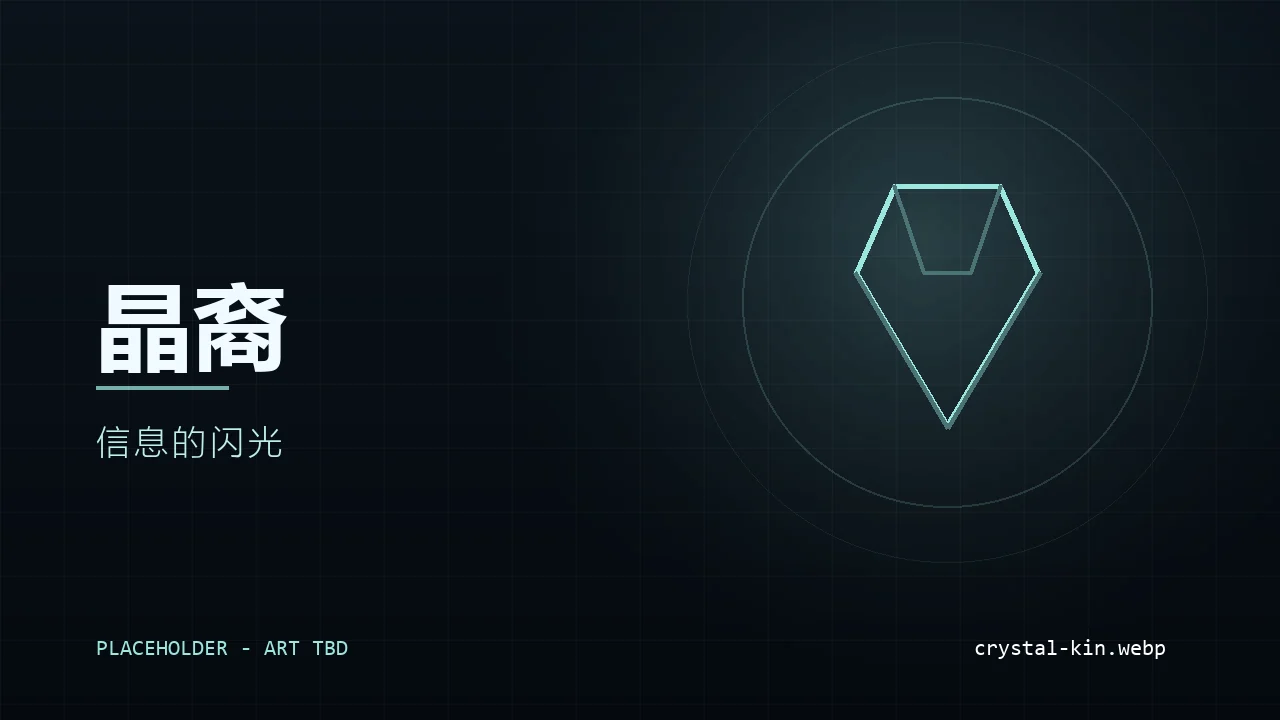
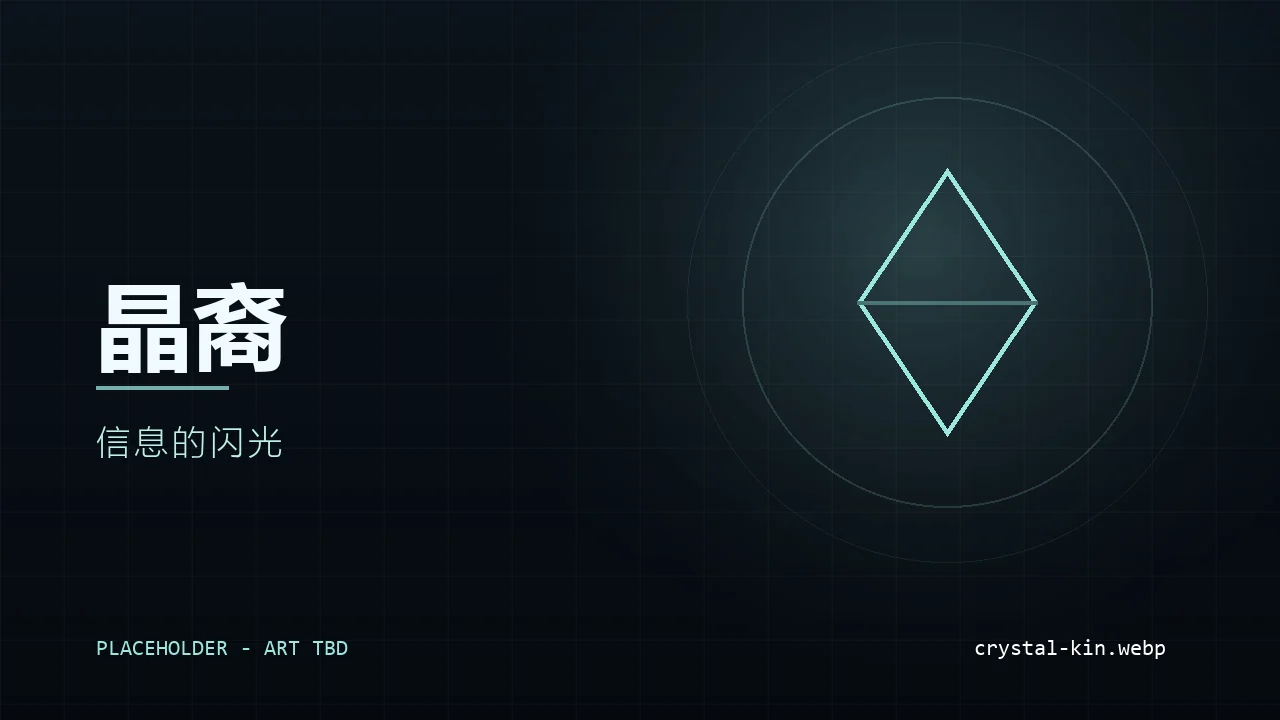
feat: 晶裔徽记改八面体，亚人改成不带五官的方脸
- 晶裔：切面宝石 → 八面体（菱形 + 中腰线，上下两个四棱锥底对底）
  中途试过等轴投影的「六边形 + Y」，但那个更像立方体，弃用
- 亚人：猫猫头 → 方形脸、不画五官，只留一对贴边的窄耳朵
  耳朵只画「Λ」两条边、底边压在脸的顶线上，避免多出横线像两面小旗

生成脚本 tools/build-race-badges.py 同步更新，两枚 webp 重新生成。
构建 166 页；site-health 全绿。

Changed region(s): [[0.6562, 0.2444, 0.8125, 0.6111]]

diff --git a/tools/build-race-badges.py b/tools/build-race-badges.py
@@ -56,8 +56,8 @@ RACES = [
     ("divine-envoy", "神界使", "#C9A8FF", "眼中再无星辰", "star"),
     ("demon", "恶魔", "#C0605F", "混乱的可能性", "horn"),
     ("evil-god", "邪神", "#A66BE0", "千分之一的可能", "eye"),
-    # 猫猫头：亚人先认这一支最直白的样子
-    ("demi-human", "亚人", "#B9C6A8", "存在于新旧秩序的夹缝中", "cat"),
+    # 方脸不画五官：亚人是兽人 / 哥布林 / 人马那一类，不该只给一张具体的「猫脸」
+    ("demi-human", "亚人", "#B9C6A8", "存在于新旧秩序的夹缝中", "demi-human"),
 ]
 
 
@@ -151,33 +151,17 @@ def draw_glyph(draw, name, cx, cy, s, color):
         draw.polygon(P([nose, fold, low_tip]), outline=color, width=line)
         stroke([nose, fold], faint, fine)
     elif name == "polyhedron":
-        # 多面体：一颗切好的宝石 —— 冠部（顶边收到腰线）+ 腰线 + 亭部收成谷底
-        hw = s * 0.68
-        top = cy - s * 0.86
-        waist = cy - s * 0.22
-        bot = cy + s * 0.92
-        outline = [
-            (cx - hw * 0.58, top),
-            (cx + hw * 0.58, top),
-            (cx + hw, waist),
-            (cx, bot),
-            (cx - hw, waist),
-        ]
-        draw.polygon(P(outline), outline=color, width=line)
-        # 冠部：顶边两道斜面收到腰线
-        stroke(
-            [
-                (cx - hw * 0.58, top),
-                (cx - hw * 0.26, waist),
-                (cx + hw * 0.26, waist),
-                (cx + hw * 0.58, top),
-            ],
-            faint,
-            fine,
-        )
-        # 亭部：从腰线收到谷底
-        for side in (-1, 1):
-            stroke([(cx + side * hw, waist), (cx, bot)], faint, fine)
+        # 八面体：上下两个四棱锥底对底，侧面看过去就是「菱形 + 一道中腰线」。
+        # （等轴投影的六边形 + Y 更像立方体，所以没用那种画法）
+        hw = s * 0.66
+        hh = s * 0.98
+        top = (cx, cy - hh)
+        bot = (cx, cy + hh)
+        left = (cx - hw, cy)
+        right = (cx + hw, cy)
+        draw.polygon(P([top, right, bot, left]), outline=color, width=line)
+        # 中腰线 = 那个正方形底座的可见边
+        stroke([left, right], faint, fine)
     elif name == "flame":
         draw.polygon(
             P(
@@ -316,41 +300,28 @@ def draw_glyph(draw, name, cx, cy, s, color):
         draw.arc(box(cx - s, cy - s * 0.72, cx + s, cy + s * 0.72), 20, 160, fill=color, width=line)
         draw.ellipse(box(cx - s * 0.22, cy - s * 0.22, cx + s * 0.22, cy + s * 0.22), outline=faint, width=line)
         draw.ellipse(box(cx - s * 0.06, cy - s * 0.16, cx + s * 0.06, cy + s * 0.16), fill=faint)
-    elif name == "cat":
-        # 猫猫头：圆脸 + 两只三角耳 + 两点眼 + 一个小鼻子
-        head = s * 0.74
-        draw.ellipse(
-            box(cx - head, cy - head * 0.80, cx + head, cy + head * 1.04), outline=color, width=line
+    elif name == "demi-human":
+        # 亚人：方脸 + 一对耳，**不画五官**。
+        # 这一族是兽人 / 哥布林 / 人马那一类，不该只给一张具体的「猫脸」。
+        w = s * 0.66
+        h = s * 0.60
+        top_y = cy - h + s * 0.08
+        bot_y = cy + h + s * 0.08
+        draw.rounded_rectangle(
+            box(cx - w, top_y, cx + w, bot_y),
+            radius=round(s * 0.16),
+            outline=color,
+            width=line,
         )
         for side in (-1, 1):
-            ex = cx + side * head * 0.56
-            draw.polygon(
-                P(
-                    [
-                        (ex - side * head * 0.22, cy - head * 0.62),
-                        (ex + side * head * 0.18, cy - head * 1.32),
-                        (ex + side * head * 0.54, cy - head * 0.36),
-                    ]
-                ),
-                outline=color,
-                width=line,
-            )
-        for side in (-1, 1):
-            exx = cx + side * head * 0.34
-            eyy = cy - head * 0.08
-            draw.ellipse(
-                box(exx - s * 0.055, eyy - s * 0.075, exx + s * 0.055, eyy + s * 0.075), fill=faint
-            )
-        draw.polygon(
-            P(
-                [
-                    (cx - s * 0.08, cy + head * 0.18),
-                    (cx + s * 0.08, cy + head * 0.18),
-                    (cx, cy + head * 0.32),
-                ]
-            ),
-            fill=faint,
-        )
+            # 耳朵只画成「Λ」两条边，底边压在脸的顶线上 ——
+            # 画成闭合三角形会多出一条横线，看着像插了两面小旗。
+            # 比例收窄一点（宽 0.38w、高 0.34s），才像耳朵不像旗子。
+            outer = (cx + side * w * 0.78, top_y)
+            tip = (cx + side * w * 0.60, top_y - s * 0.34)
+            inner = (cx + side * w * 0.40, top_y)
+            stroke([outer, tip], color, line)
+            stroke([tip, inner], color, line)
 
 
 def letter_spaced(draw, xy, text, font, fill, spacing=0):

diff --git a/src/content/blog/site-changelog.md b/src/content/blog/site-changelog.md
@@ -9,6 +9,13 @@ heroImage: '../../assets/oc/blog-hero.webp'
 
 ---
 
+## 2026-10-19　再调两个种族符号：晶裔改八面体、亚人改方脸
+
+接着上面那批徽记的改动，又换了两处：
+
+- **晶裔**：切面宝石 → **八面体**。侧面看过去就是「菱形 + 一道中腰线」—— 上下两个四棱锥底对底。中途试过等轴投影的「六边形 + Y」，但那个读起来更像立方体，所以没用。
+- **亚人**：猫猫头 → **不带五官的方形脸**，只留一对贴边的窄耳朵。这一族是兽人 / 哥布林 / 人马那一类，给一张具体的猫脸太窄了；耳朵只画「Λ」两条边，底边压在脸的顶线上，不然会多出一条横线像插了两面小旗。
+
 ## 2026-10-19　协议弹窗：窄屏上按钮不再折行
 
 手机上「拒绝，喝一口！」会被挤成两行 —— 按钮的内边距是 `0.7em 2.2em`，窄屏上太占地方，而按钮行又是不会换行的 flex。
